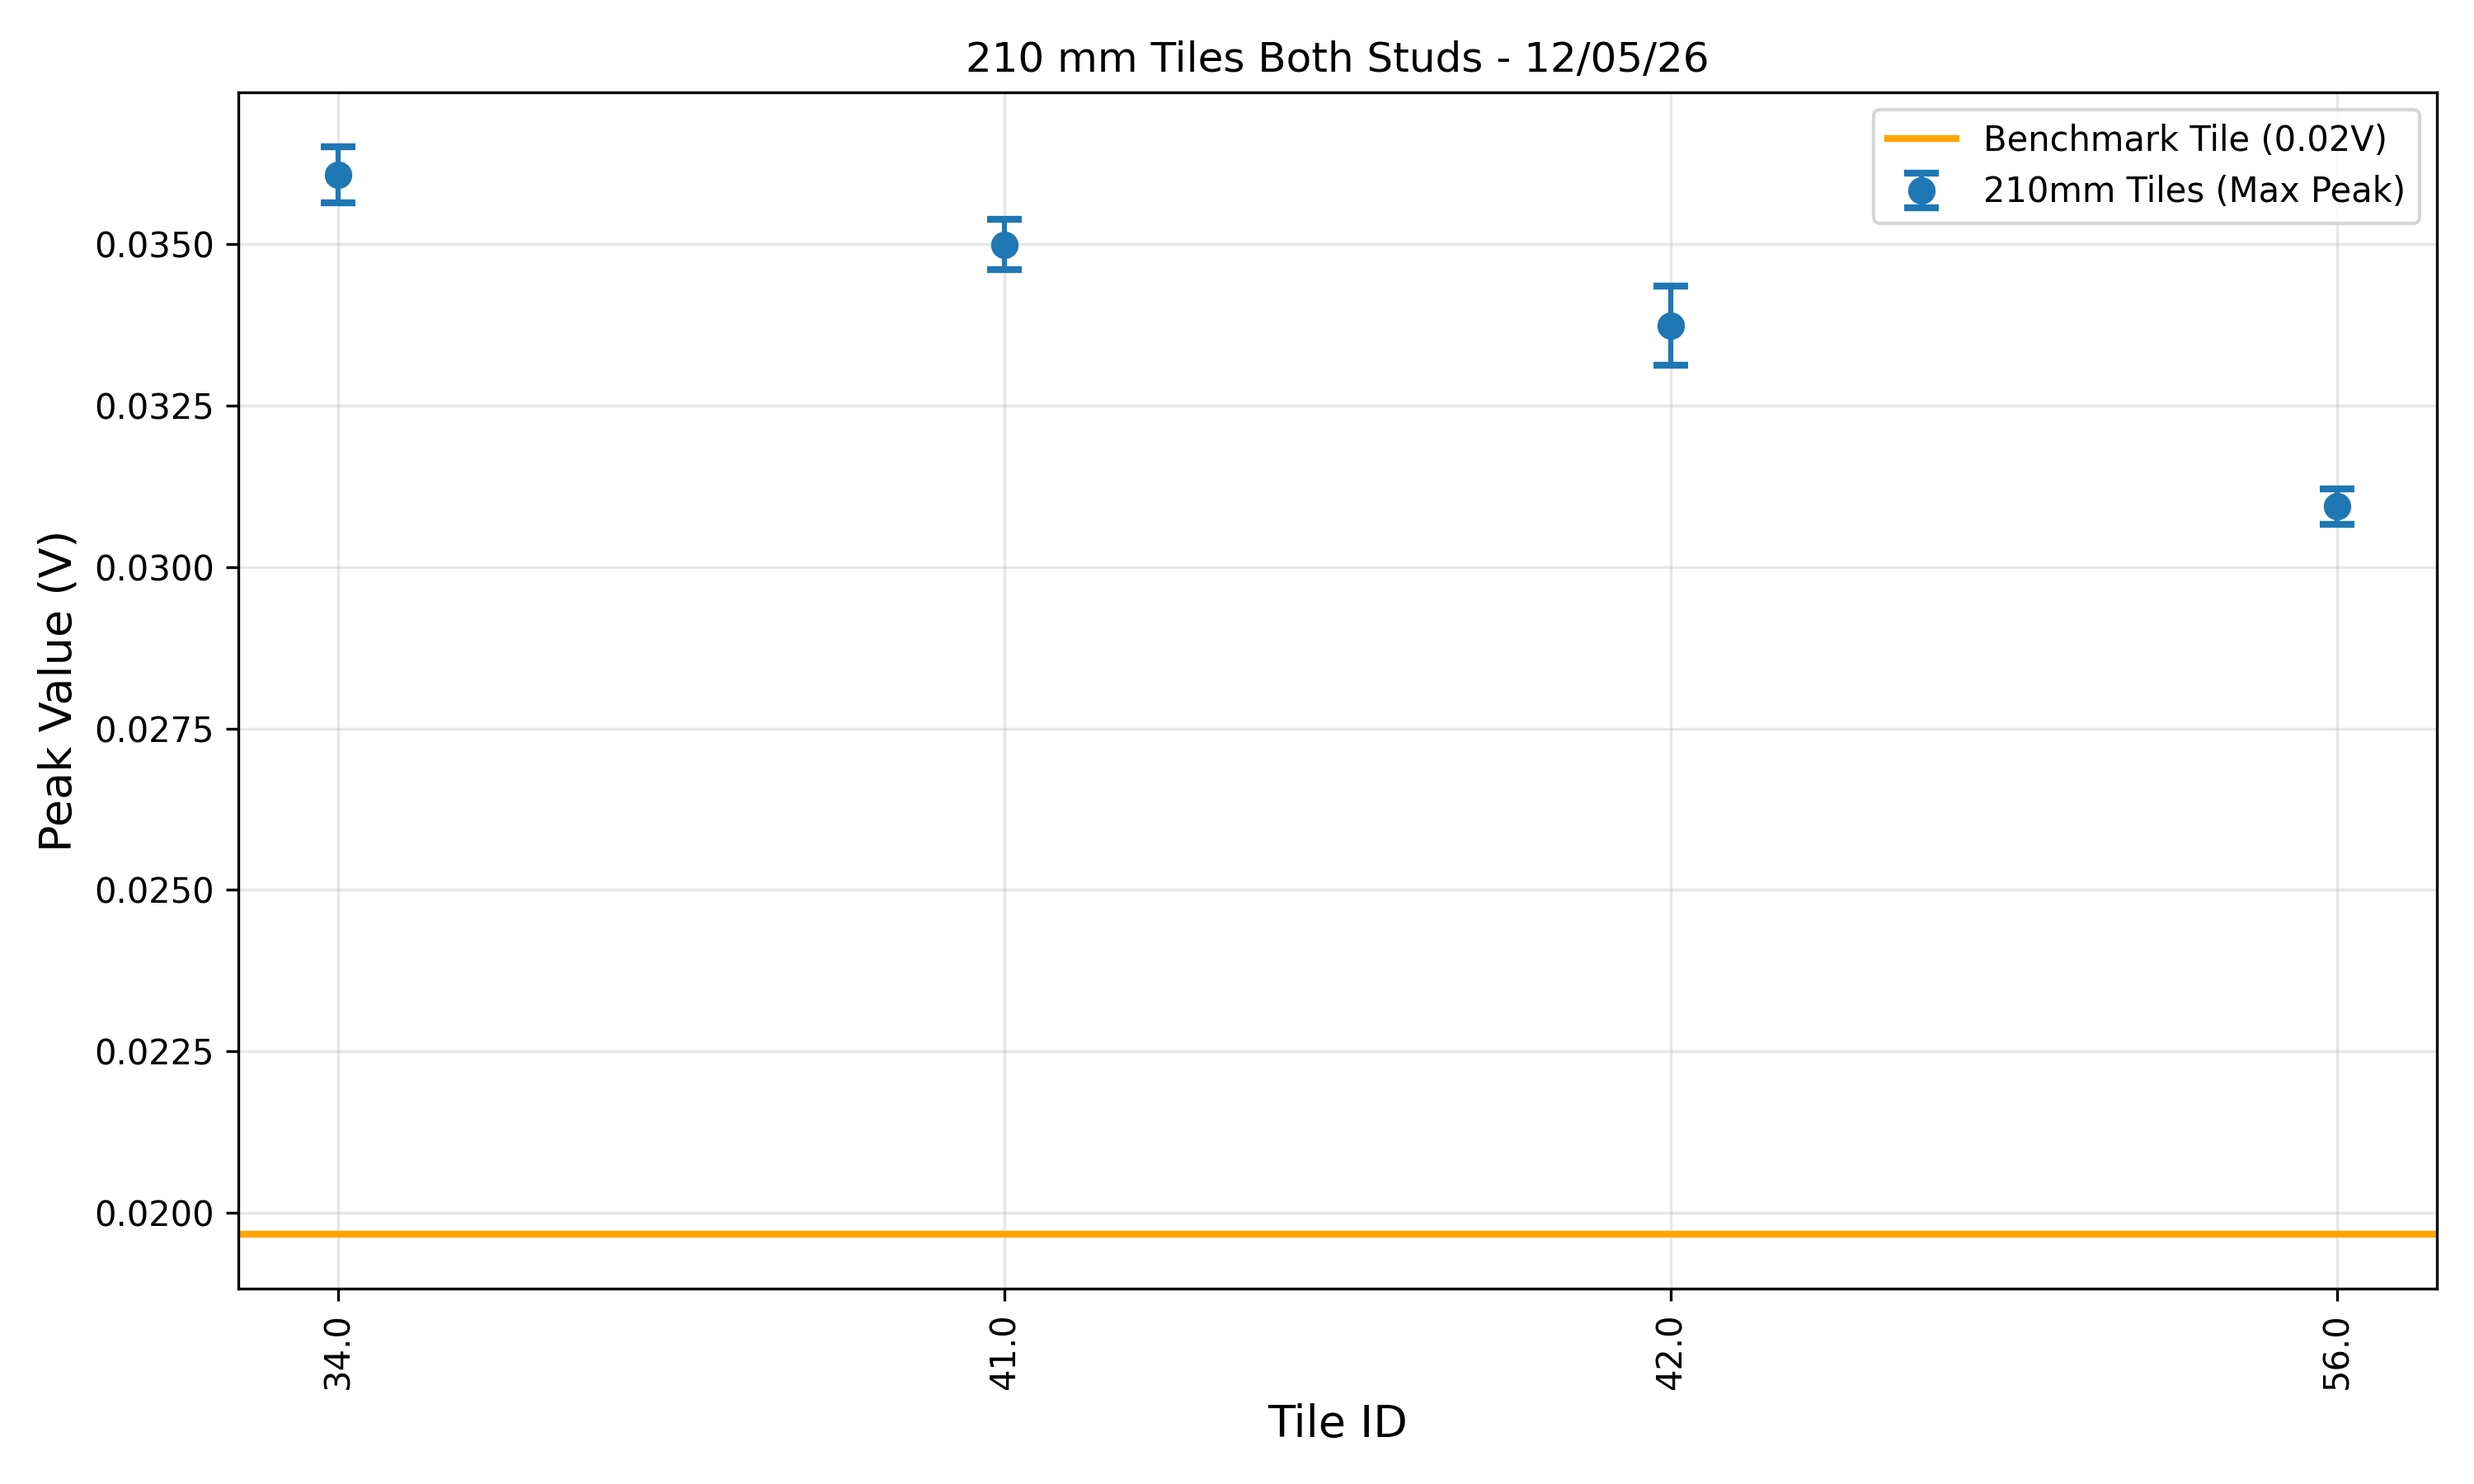
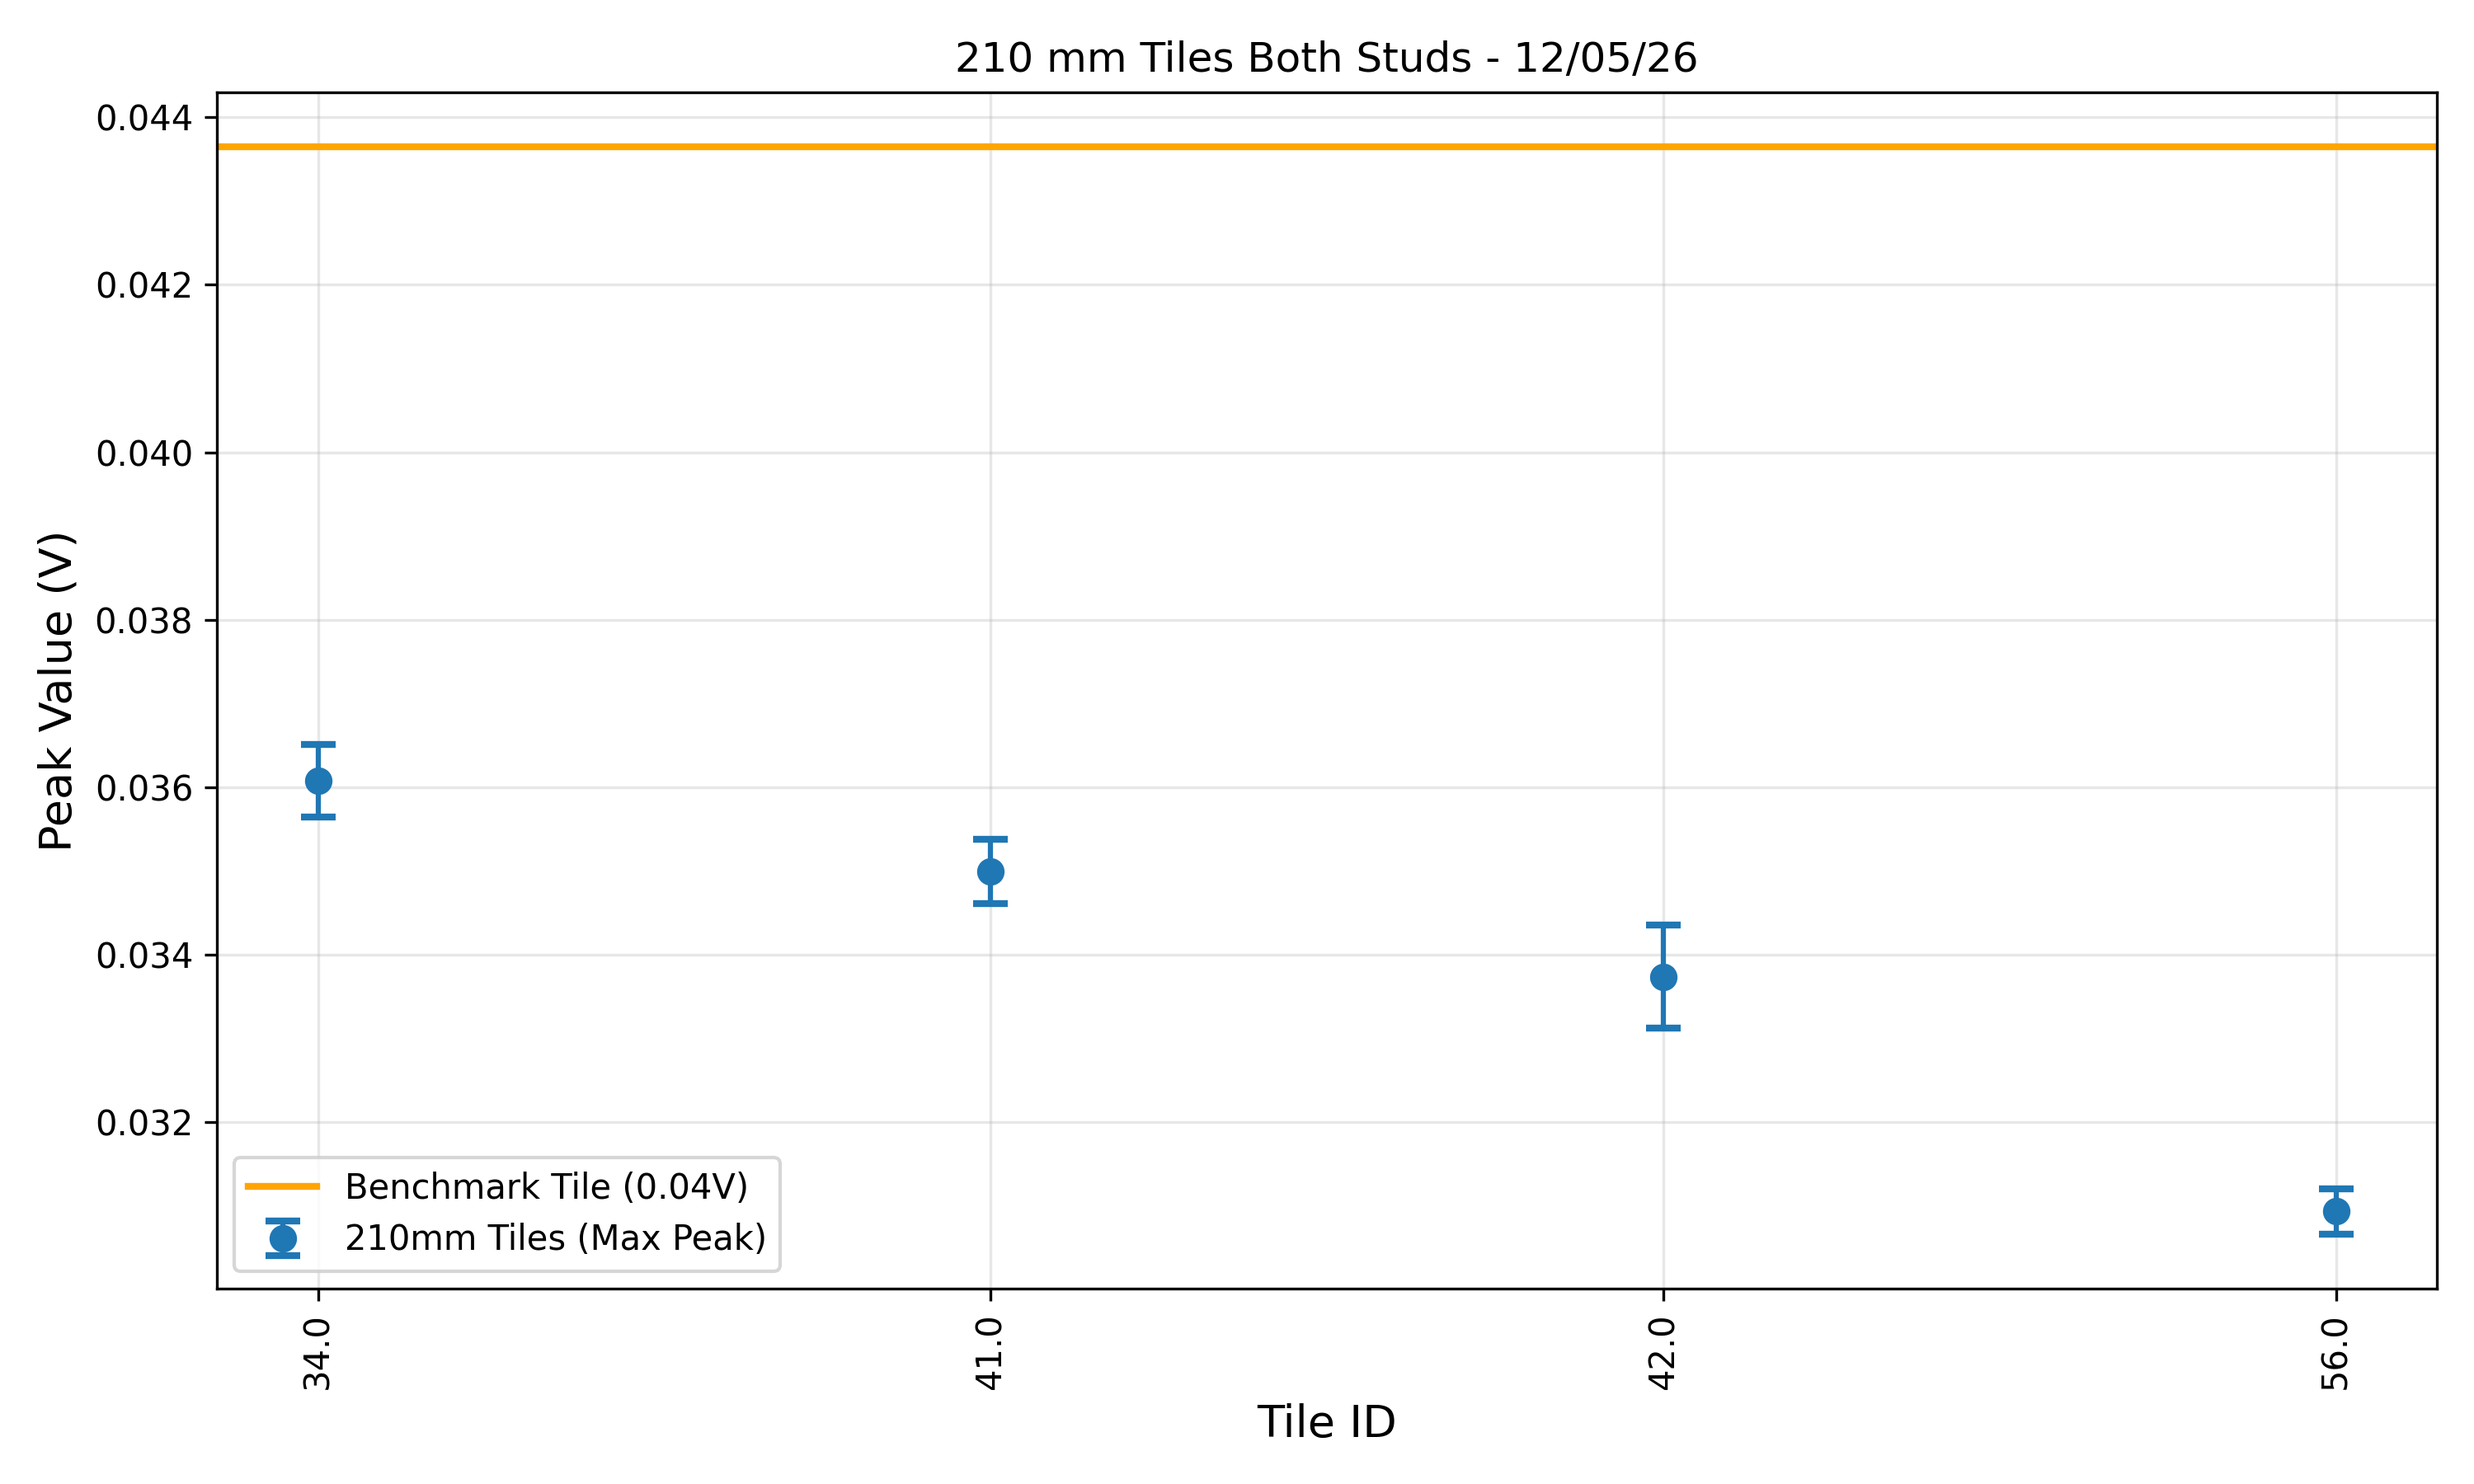
vault backup: 2026-05-12 17:02:13

diff --git a/year-3-STFC/Tile Testing/260505 - Testing for full stave construction.md b/year-3-STFC/Tile Testing/260505 - Testing for full stave construction.md
@@ -55,7 +55,7 @@ Tile ID 008 used as benchmark, and we obtain the following results from the PHS 
 
 
 
-
+## Benchmark vs Tile Length
 
 
 
